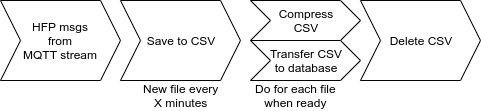
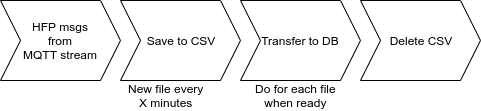
Update docs

diff --git a/README.md b/README.md
@@ -2,20 +2,29 @@
 
 See [Digitransit HFP documentation](https://digitransit.fi/en/developers/apis/4-realtime-api/vehicle-positions/).
 
-This repository contains
-
-- **TODO:** routines for subscribing to HFP feed by [HSL](https://hsl.fi)
-- **TODO:** routines for managing and deleting old record files and logs
-- **TODO:** infrastructure for a database that stores the recorded HFP data.
+This is a tool for recording HFP v2 feed for later use.
 
 ## Usage
 
-**TODO**
+**TODO:** Docker compose, common volume, using individual services
 
 ## Architecture
 
-![General idea of HFP data recording](docs/hfplogger-general-process.png "General idea of HFP data recording")
+![Service architecture](docs/hfplogger-architecture.png "Service architecture")
 
-A subscription script cleans up and saves the data stream to csv files.
-The resulting files can be compressed and stored for later use,
-or their contents can be transferred into a Postgres-Timescale database.
+**[subscriber](subscriber)** saves the data stream to csv files and logs possible errors,
+for a given amount of seconds.
+Run this e.g. every 15 minutes.
+
+**TODO: db-server** is a PostgreSQL database with [TimescaleDB](https://docs.timescale.com/latest/main) extension for storing certain aspects of the HFP data, such as vehicle position events, or traffic light priority events.
+It automatically deletes data older than given period of time (Timescale)
+Start this once, and keep available!
+
+**TODO: db-insertor** copies the results of **subscriber** to **db-server** and drops erroneous records such as duplicate rows.
+Run this e.g. once a day, or whenever a csv file is ready, depending on how you want to distribute the load of your host server.
+
+**TODO: cleaner** deletes csv files, logs and database records older than a given period of time.
+Run this e.g. once a day.
+
+**TODO: reporter** sends diagnostic statistics of the above services to a Slack channel.
+Run this e.g. once a day.
